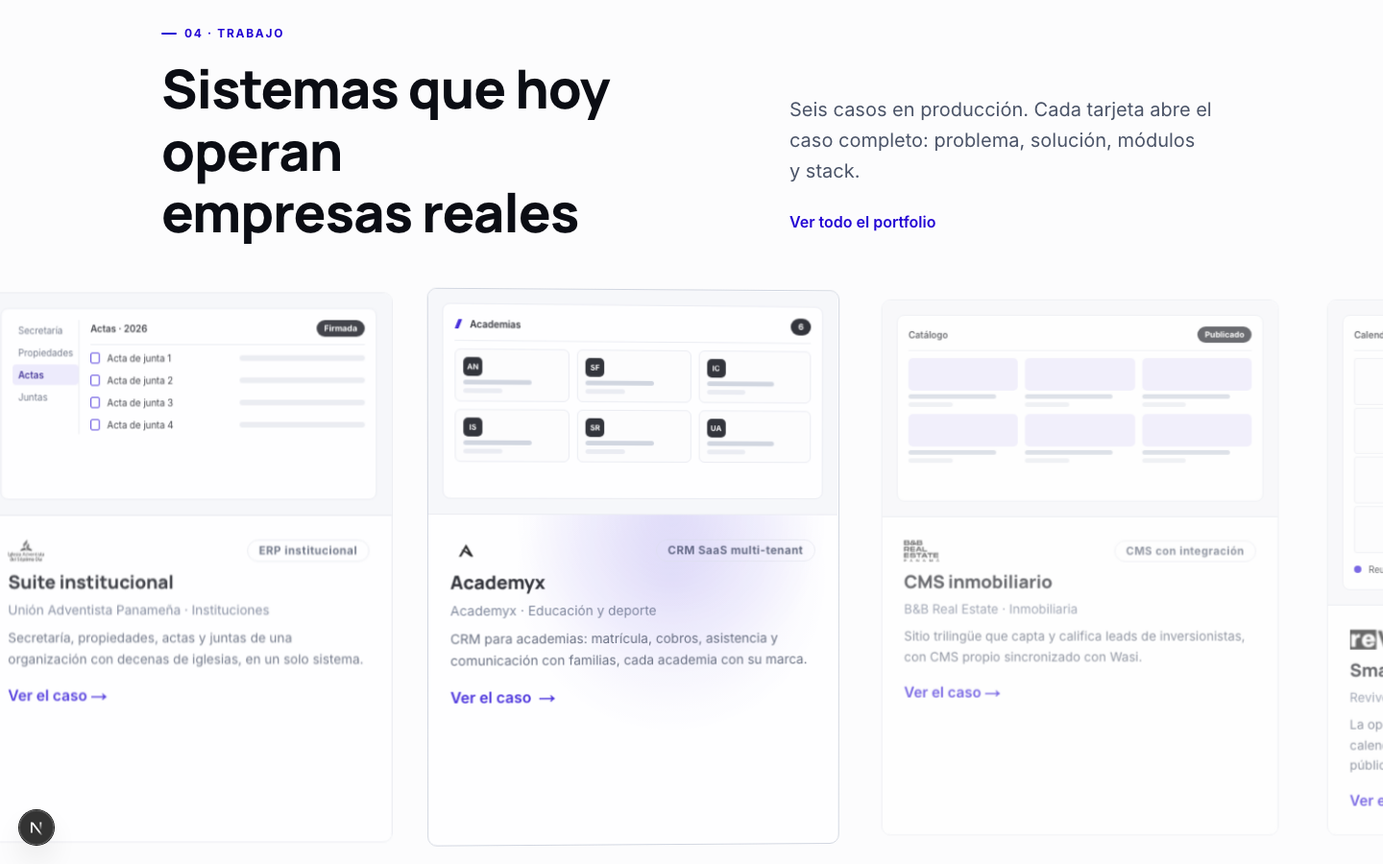
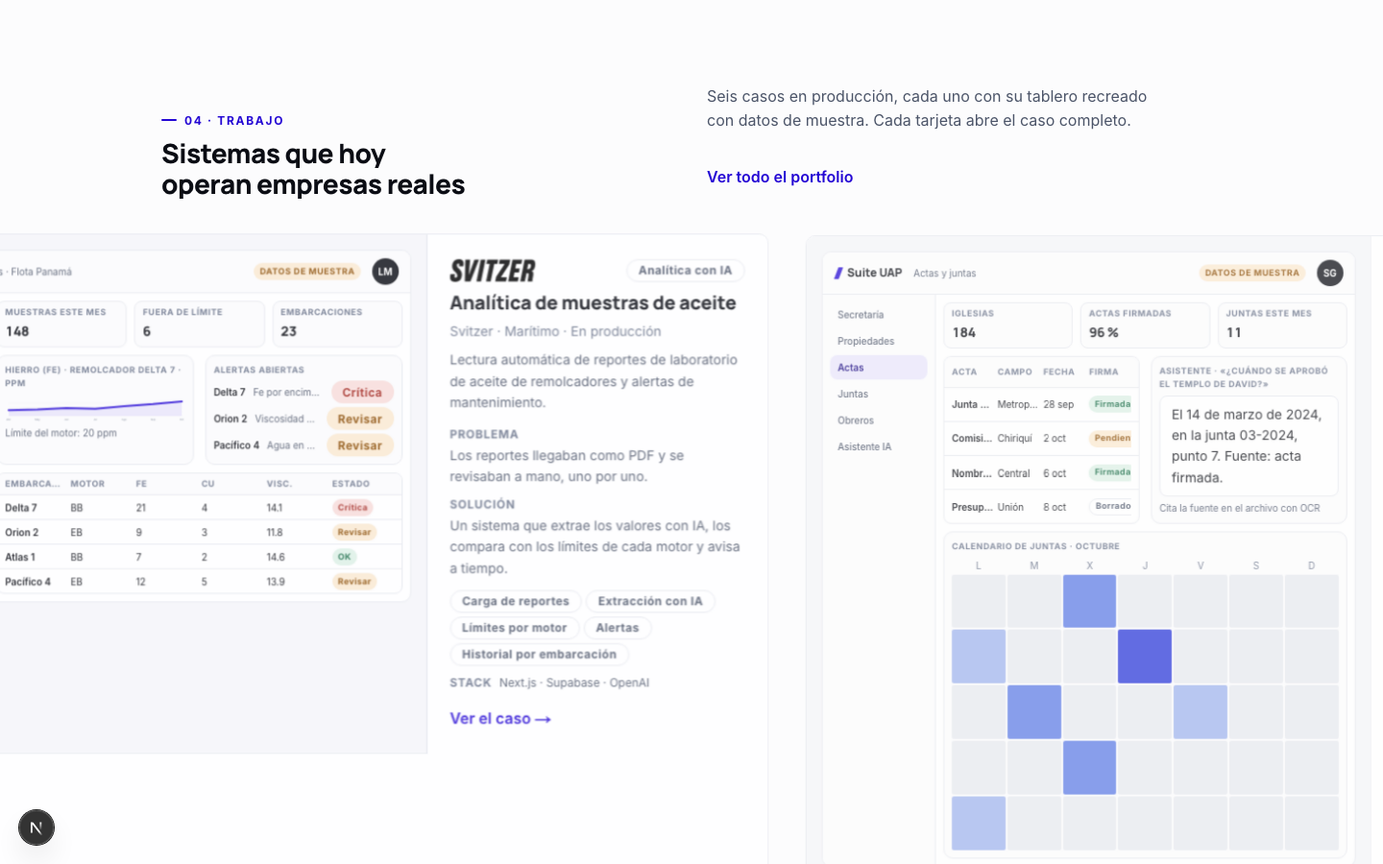
feat(trabajo): tableros completos por plataforma con datos de muestra y ficha detallada en cada tarjeta

diff --git a/src/components/sections/case-dashboards.tsx b/src/components/sections/case-dashboards.tsx
@@ -1,0 +1,164 @@
+// motion: none — tableros de cada plataforma del portfolio, construidos en HTML/CSS/SVG con las piezas del
+// sistema visual y DATOS DE MUESTRA (nombres, cifras y fechas inventados: nunca datos reales de clientes).
+// Cada tablero reproduce la estructura real del sistema: sus módulos, sus pantallas y su tipo de información.
+import { LetterChip, Pill } from "@/components/ui/primitives";
+import { AreaChart, Calendar, Funnel, Gantt, HBars, Heat, Ring, Stacked } from "./charts";
+import type { Lang } from "../../../content/site";
+
+const t = (lang: Lang, es: string, en: string) => (lang === "es" ? es : en);
+
+function Frame({ app, modulo, menu, activo, children, lang, user = "MP" }: { app: string; modulo: string; menu: string[]; activo: number; children: React.ReactNode; lang: Lang; user?: string }) {
+  return (
+    <div className="cd" data-mock="true">
+      <div className="cd-chrome">
+        <span className="cd-brand"><i /><b>{app}</b></span>
+        <span className="cd-crumb">{modulo}</span>
+        <span className="cd-mock">{t(lang, "Datos de muestra", "Sample data")}</span>
+        <span className="hw-user">{user}</span>
+      </div>
+      <div className="cd-body">
+        <nav className="cd-side" aria-hidden="true">{menu.map((m, i) => <span key={m} className={i === activo ? "on" : ""}>{m}</span>)}</nav>
+        <div className="cd-main">{children}</div>
+      </div>
+    </div>
+  );
+}
+
+function Kpis({ items }: { items: [string, string][] }) {
+  return <div className="cd-kpis">{items.map(([k, v]) => <div className="cd-kpi" key={k}><span className="hw-kpi-k">{k}</span><b className="num">{v}</b></div>)}</div>;
+}
+
+function Table({ cols, rows }: { cols: string[]; rows: (string | { t: string; tono: "ok" | "run" | "ghost" | "bad" })[][] }) {
+  return (
+    <div className="cd-table" style={{ "--cols": cols.length } as React.CSSProperties}>
+      <div className="cd-tr cd-th">{cols.map((c) => <span key={c}>{c}</span>)}</div>
+      {rows.map((r, i) => (
+        <div className="cd-tr" key={i}>{r.map((c, j) => typeof c === "string" ? <span key={j} className={j === 0 ? "strong" : ""}>{c}</span> : <span key={j}><Pill variant={c.tono}>{c.t}</Pill></span>)}</div>
+      ))}
+    </div>
+  );
+}
+
+/* ---------- Svitzer: analítica de muestras de aceite ---------- */
+function Svitzer({ lang }: { lang: Lang }) {
+  const es = lang === "es";
+  return (
+    <Frame app="OilSense" modulo={es ? "Muestras · Flota Panamá" : "Samples · Panama fleet"} menu={[es ? "Flota" : "Fleet", es ? "Muestras" : "Samples", es ? "Alertas" : "Alerts", es ? "Reportes" : "Reports"]} activo={1} lang={lang} user="LM">
+      <Kpis items={[[es ? "Muestras este mes" : "Samples this month", "148"], [es ? "Fuera de límite" : "Out of limit", "6"], [es ? "Embarcaciones" : "Vessels", "23"]]} />
+      <div className="cd-two">
+        <div className="hw-card"><span className="hw-kpi-k">{es ? "Hierro (Fe) · Remolcador Delta 7 · ppm" : "Iron (Fe) · Tug Delta 7 · ppm"}</span><AreaChart valores={[8, 9, 11, 10, 14, 17, 21]} etiquetas={["Abr", "May", "Jun", "Jul", "Ago", "Sep", "Oct"]} unidad="ppm" id="sv-a" h={96} /><span className="hw-sub">{es ? "Límite del motor: 20 ppm" : "Engine limit: 20 ppm"}</span></div>
+        <div className="hw-card"><span className="hw-kpi-k">{es ? "Alertas abiertas" : "Open alerts"}</span>
+          <ul className="cd-list">{[["Delta 7", es ? "Fe por encima del límite" : "Fe above limit", "bad"], ["Orion 2", es ? "Viscosidad baja" : "Low viscosity", "run"], ["Pacífico 4", es ? "Agua en aceite" : "Water in oil", "run"]].map(([a, b, c]) => <li key={a}><b>{a}</b><span>{b}</span><Pill variant={c as "bad"}>{c === "bad" ? (es ? "Crítica" : "Critical") : (es ? "Revisar" : "Review")}</Pill></li>)}</ul></div>
+      </div>
+      <Table cols={[es ? "Embarcación" : "Vessel", "Motor", "Fe", "Cu", "Visc.", es ? "Estado" : "Status"]} rows={[["Delta 7", "BB", "21", "4", "14.1", { t: es ? "Crítica" : "Critical", tono: "bad" }], ["Orion 2", "EB", "9", "3", "11.8", { t: es ? "Revisar" : "Review", tono: "run" }], ["Atlas 1", "BB", "7", "2", "14.6", { t: "OK", tono: "ok" }], ["Pacífico 4", "EB", "12", "5", "13.9", { t: es ? "Revisar" : "Review", tono: "run" }]]} />
+    </Frame>
+  );
+}
+
+/* ---------- Unión Adventista: suite institucional ---------- */
+function Uapa({ lang }: { lang: Lang }) {
+  const es = lang === "es";
+  return (
+    <Frame app="Suite UAP" modulo={es ? "Actas y juntas" : "Minutes and boards"} menu={[es ? "Secretaría" : "Secretariat", es ? "Propiedades" : "Properties", es ? "Actas" : "Minutes", es ? "Juntas" : "Boards", es ? "Obreros" : "Workers", es ? "Asistente IA" : "AI assistant"]} activo={2} lang={lang} user="SG">
+      <Kpis items={[[es ? "Iglesias" : "Churches", "184"], [es ? "Actas firmadas" : "Signed minutes", "96 %"], [es ? "Juntas este mes" : "Boards this month", "11"]]} />
+      <div className="cd-two">
+        <Table cols={[es ? "Acta" : "Minutes", es ? "Campo" : "Field", es ? "Fecha" : "Date", es ? "Firma" : "Signature"]} rows={[[es ? "Junta directiva 09-2026" : "Board 09-2026", es ? "Metropolitano" : "Metropolitan", "28 sep", { t: es ? "Firmada" : "Signed", tono: "ok" }], [es ? "Comisión de propiedades" : "Property committee", "Chiriquí", "2 oct", { t: es ? "Pendiente" : "Pending", tono: "run" }], [es ? "Nombramientos" : "Appointments", es ? "Central" : "Central", "6 oct", { t: es ? "Firmada" : "Signed", tono: "ok" }], [es ? "Presupuesto 2027" : "Budget 2027", es ? "Unión" : "Union", "8 oct", { t: es ? "Borrador" : "Draft", tono: "ghost" }]]} />
+        <div className="hw-card"><span className="hw-kpi-k">{es ? "Asistente · «¿Cuándo se aprobó el templo de David?»" : "Assistant · “When was the David temple approved?”"}</span><p className="cd-answer">{es ? "El 14 de marzo de 2024, en la junta 03-2024, punto 7. Fuente: acta firmada." : "On March 14, 2024, board 03-2024, item 7. Source: signed minutes."}</p><span className="hw-sub">{es ? "Cita la fuente en el archivo con OCR" : "Cites the source in the OCR archive"}</span></div>
+      </div>
+      <div className="hw-card"><span className="hw-kpi-k">{es ? "Calendario de juntas · octubre" : "Board calendar · October"}</span><Calendar dias={[0, 0, 2, 0, 0, 0, 0, 1, 0, 0, 3, 0, 0, 0, 0, 2, 0, 0, 1, 0, 0, 0, 0, 2, 0, 0, 0, 0, 1, 0, 0, 0, 0, 0, 0]} diasCorto={es ? ["L", "M", "X", "J", "V", "S", "D"] : ["M", "T", "W", "T", "F", "S", "S"]} id="ua-c" unidad={es ? "juntas" : "boards"} /></div>
+    </Frame>
+  );
+}
+
+/* ---------- Academyx: CRM SaaS para academias ---------- */
+function Academyx({ lang }: { lang: Lang }) {
+  const es = lang === "es";
+  return (
+    <Frame app="Academyx" modulo={es ? "Academia Norte · Matrícula" : "North Academy · Enrollment"} menu={[es ? "Matrícula" : "Enrollment", es ? "Jugadores" : "Players", es ? "Familias" : "Families", es ? "Cobros" : "Billing", es ? "Torneos" : "Tournaments", es ? "Correos" : "Email"]} activo={0} lang={lang} user="AN">
+      <Kpis items={[[es ? "Jugadores activos" : "Active players", "236"], [es ? "Cobrado octubre" : "Collected October", "US$ 14 920"], [es ? "Morosidad" : "Overdue", "4 %"]]} />
+      <div className="cd-two">
+        <Table cols={[es ? "Jugador" : "Player", es ? "Categoría" : "Category", es ? "Familia" : "Family", es ? "Cobro" : "Billing"]} rows={[["Mateo R.", "Sub-12", "Rodríguez", { t: es ? "Al día" : "Paid", tono: "ok" }], ["Sofía M.", "Sub-10", "Mendoza", { t: es ? "Al día" : "Paid", tono: "ok" }], ["Diego C.", "Sub-14", "Castillo", { t: es ? "Vence 15 oct" : "Due Oct 15", tono: "run" }], ["Valeria P.", "Sub-8", "Pérez", { t: es ? "Pendiente" : "Pending", tono: "ghost" }]]} />
+        <div className="hw-card"><span className="hw-kpi-k">{es ? "Asistencia por categoría · semana" : "Attendance by category · week"}</span><Heat filas={["Sub-8", "Sub-10", "Sub-12", "Sub-14"]} cols={es ? ["L", "M", "X", "J", "V"] : ["M", "T", "W", "T", "F"]} datos={[[18, 20, 17, 21, 19], [24, 22, 25, 23, 26], [30, 28, 31, 29, 33], [22, 24, 21, 25, 23]]} id="ax-h" unidad={es ? "asistentes" : "attendees"} /></div>
+      </div>
+      <div className="hw-card"><span className="hw-kpi-k">{es ? "Cobros por medio de pago" : "Payments by method"}</span><HBars items={[{ label: "Yappy", valor: 6240 }, { label: "PagueloFácil", valor: 4810 }, { label: "Stripe", valor: 2390 }, { label: es ? "Efectivo" : "Cash", valor: 1480 }]} unidad="US$" id="ax-b" /></div>
+    </Frame>
+  );
+}
+
+/* ---------- B&B Real Estate: CMS inmobiliario con Wasi ---------- */
+function Bnb({ lang }: { lang: Lang }) {
+  const es = lang === "es";
+  return (
+    <Frame app="B&B CMS" modulo={es ? "Propiedades · Sincronizadas con Wasi" : "Properties · Synced with Wasi"} menu={[es ? "Propiedades" : "Properties", es ? "Proyectos" : "Projects", "Leads", es ? "Campañas" : "Campaigns", es ? "Documentos" : "Documents", es ? "Traducciones" : "Translations"]} activo={0} lang={lang} user="BB">
+      <Kpis items={[[es ? "Publicadas" : "Published", "312"], [es ? "Leads esta semana" : "Leads this week", "27"], [es ? "Última sincronización" : "Last sync", es ? "hace 12 min" : "12 min ago"]]} />
+      <div className="cd-props">
+        {[[es ? "Apartamento · Costa del Este" : "Apartment · Costa del Este", "US$ 385 000", "ok"], [es ? "Casa · Clayton" : "House · Clayton", "US$ 720 000", "ok"], [es ? "Oficina · Obarrio" : "Office · Obarrio", "US$ 2 400 / mes", "run"], [es ? "Lote · Coronado" : "Lot · Coronado", "US$ 149 000", "ghost"]].map(([n, p, s]) => (
+          <div className="cd-prop" key={n}><i className="cd-photo" /><b>{n}</b><span className="num">{p}</span><Pill variant={s as "ok"}>{s === "ok" ? (es ? "Publicada" : "Published") : s === "run" ? (es ? "Revisión" : "Review") : (es ? "Borrador" : "Draft")}</Pill></div>
+        ))}
+      </div>
+      <div className="cd-two">
+        <div className="hw-card"><span className="hw-kpi-k">{es ? "Leads por origen" : "Leads by source"}</span><HBars items={[{ label: "Google", valor: 11 }, { label: "Instagram", valor: 8 }, { label: "WhatsApp", valor: 6 }, { label: es ? "Referido" : "Referral", valor: 2 }]} unidad="leads" id="bb-l" /></div>
+        <div className="hw-card"><span className="hw-kpi-k">{es ? "Idiomas del sitio" : "Site languages"}</span><ul className="cd-list">{[["ES", es ? "Español" : "Spanish", "100 %"], ["EN", es ? "Inglés" : "English", "98 %"], ["PT", es ? "Portugués" : "Portuguese", "91 %"]].map(([c, n, p]) => <li key={c}><LetterChip>{c}</LetterChip><span>{n}</span><b className="num">{p}</b></li>)}</ul></div>
+      </div>
+    </Frame>
+  );
+}
+
+/* ---------- Smart Church (Revive): operación de la iglesia ---------- */
+function SmartChurch({ lang }: { lang: Lang }) {
+  const es = lang === "es";
+  return (
+    <Frame app="Smart Church" modulo={es ? "Panel · Iglesia Revive" : "Dashboard · Revive Church"} menu={[es ? "Ministerios" : "Ministries", "Roster", es ? "Calendario" : "Calendar", es ? "Visitas" : "Visits", es ? "Junta" : "Board", es ? "Alabanza" : "Worship", es ? "Tesorería" : "Treasury"]} activo={2} lang={lang} user="RV">
+      <Kpis items={[[es ? "Miembros" : "Members", "412"], [es ? "Visitas del mes" : "Visits this month", "38"], [es ? "Ofrenda octubre" : "October offering", "US$ 9 340"]]} />
+      <div className="cd-two">
+        <div className="hw-card"><span className="hw-kpi-k">{es ? "Roster · domingo 12" : "Roster · Sunday 12"}</span><Gantt filas={[{ cliente: es ? "Alabanza" : "Worship", inicio: 0, fin: 1 }, { cliente: es ? "Ujieres" : "Ushers", inicio: 0, fin: 3 }, { cliente: es ? "Niños" : "Kids", inicio: 1, fin: 2 }, { cliente: es ? "Audio" : "Sound", inicio: 0, fin: 3 }]} dias={["8", "9", "10", "11", "12"]} id="sc-g" /></div>
+        <div className="hw-card"><span className="hw-kpi-k">{es ? "Ofrendas por mes" : "Offerings by month"}</span><Stacked series={[[6.1, 6.8, 7.4, 7.9], [1.2, 1.4, 1.1, 1.5]]} tipos={[es ? "Diezmo" : "Tithe", es ? "Misiones" : "Missions"]} meses={["Jul", "Ago", "Sep", "Oct"]} id="sc-s" unidad="US$ miles" /></div>
+      </div>
+      <Table cols={[es ? "Visita pastoral" : "Pastoral visit", es ? "Familia" : "Family", es ? "Responsable" : "Owner", es ? "Estado" : "Status"]} rows={[[es ? "Hospital · oración" : "Hospital · prayer", "Gómez", "Pr. Díaz", { t: es ? "Hecha" : "Done", tono: "ok" }], [es ? "Nuevo miembro" : "New member", "Lara", "Hna. Ruiz", { t: es ? "Programada" : "Scheduled", tono: "run" }], [es ? "Seguimiento" : "Follow-up", "Pinto", "Pr. Díaz", { t: es ? "Pendiente" : "Pending", tono: "ghost" }]]} />
+    </Frame>
+  );
+}
+
+/* ---------- John Henry: sastrería ---------- */
+function JohnHenry({ lang }: { lang: Lang }) {
+  const es = lang === "es";
+  return (
+    <Frame app="John Henry" modulo={es ? "Pedidos · Sede Panamá" : "Orders · Panama branch"} menu={[es ? "Citas" : "Appointments", es ? "Clientes" : "Clients", es ? "Pedidos" : "Orders", es ? "Telas" : "Fabrics", es ? "Modelos" : "Models", es ? "Finanzas" : "Finance", es ? "Sedes" : "Branches"]} activo={2} lang={lang} user="JH">
+      <Kpis items={[[es ? "Pedidos en taller" : "Orders in workshop", "14"], [es ? "Citas esta semana" : "Appointments this week", "9"], [es ? "Ventas octubre" : "October sales", "US$ 31 600"]]} />
+      <div className="cd-two">
+        <Table cols={[es ? "Pedido" : "Order", es ? "Prenda" : "Garment", es ? "Tela" : "Fabric", es ? "Etapa" : "Stage"]} rows={[["#2041", es ? "Traje 2 piezas" : "2-piece suit", "Loro Piana 110s", { t: es ? "Corte" : "Cutting", tono: "run" }], ["#2044", es ? "Esmoquin" : "Tuxedo", "Vitale Barberis", { t: es ? "Prueba" : "Fitting", tono: "run" }], ["#2039", es ? "Camisa" : "Shirt", "Thomas Mason", { t: es ? "Entregado" : "Delivered", tono: "ok" }], ["#2046", es ? "Abrigo" : "Overcoat", "Cashmere", { t: es ? "Medidas" : "Measuring", tono: "ghost" }]]} />
+        <div className="hw-card cd-measures"><span className="hw-kpi-k">{es ? "Medidas · cliente #118" : "Measurements · client #118"}</span>
+          <svg viewBox="0 0 80 120" className="cd-mannequin" aria-hidden="true"><path d="M40 6a8 8 0 1 0 0 16a8 8 0 1 0 0-16zM26 26h28l10 40h-9l-3-22v70h-8V74h-8v40h-8V44l-3 22h-9z" /></svg>
+          <ul className="cd-list tight">{[[es ? "Pecho" : "Chest", "102 cm"], [es ? "Cintura" : "Waist", "88 cm"], [es ? "Largo saco" : "Jacket length", "74 cm"], [es ? "Manga" : "Sleeve", "63 cm"]].map(([k, v]) => <li key={k}><span>{k}</span><b className="num">{v}</b></li>)}</ul></div>
+      </div>
+      <div className="hw-card"><span className="hw-kpi-k">{es ? "Ventas por sede · US$ miles" : "Sales by branch · US$ thousands"}</span><HBars items={[{ label: "Panamá", valor: 31.6 }, { label: "Bogotá", valor: 27.2 }, { label: "Medellín", valor: 18.9 }]} unidad="US$ miles" id="jh-b" /></div>
+    </Frame>
+  );
+}
+
+/* ---------- Resto de sistemas: tablero genérico con sus módulos reales ---------- */
+function Generico({ lang, nombre, modulos }: { lang: Lang; nombre: string; modulos: string[] }) {
+  const es = lang === "es";
+  return (
+    <Frame app={nombre} modulo={modulos[0] ?? ""} menu={modulos.slice(0, 6)} activo={0} lang={lang}>
+      <Kpis items={[[es ? "Registros" : "Records", "1 284"], [es ? "Activos" : "Active", "96 %"], [es ? "Este mes" : "This month", "+128"]]} />
+      <div className="cd-two">
+        <div className="hw-card"><span className="hw-kpi-k">{es ? "Actividad" : "Activity"}</span><AreaChart valores={[12, 18, 15, 22, 27, 24, 31]} etiquetas={["1", "2", "3", "4", "5", "6", "7"]} unidad={es ? "registros" : "records"} id="g-a" h={96} /></div>
+        <div className="hw-card"><span className="hw-kpi-k">{es ? "Por estado" : "By status"}</span><Funnel etapas={[{ label: es ? "Nuevos" : "New", n: 48 }, { label: es ? "En curso" : "In progress", n: 31 }, { label: es ? "Cerrados" : "Closed", n: 122 }]} activa={1} onPick={() => {}} id="g-f" /></div>
+      </div>
+      <div className="hw-card cd-ring"><Ring valor={72} meta={100} label={es ? "Avance" : "Progress"} id="g-r" /><span className="hw-sub">{es ? "72 % de la meta del mes" : "72% of the monthly goal"}</span></div>
+    </Frame>
+  );
+}
+
+export function CaseDashboard({ slug, lang, nombre, modulos }: { slug: string; lang: Lang; nombre: string; modulos: string[] }) {
+  switch (slug) {
+    case "svitzer": return <Svitzer lang={lang} />;
+    case "uapa-suite": return <Uapa lang={lang} />;
+    case "academyx": return <Academyx lang={lang} />;
+    case "bnb-real-estate": return <Bnb lang={lang} />;
+    case "smart-church": return <SmartChurch lang={lang} />;
+    case "john-henry": return <JohnHenry lang={lang} />;
+    default: return <Generico lang={lang} nombre={nombre} modulos={modulos} />;
+  }
+}

diff --git a/src/components/sections/featured-work.css b/src/components/sections/featured-work.css
@@ -13,7 +13,7 @@
   .fw-rail-outer { overflow-x: auto; overflow-y: hidden; scroll-snap-type: x mandatory; scrollbar-width: none; }
   .fw-rail-outer::-webkit-scrollbar { display: none; }
   .fw-rail { display: flex; width: max-content; min-width: 100%; }
-  .fw-rail > li { scroll-snap-align: start; flex: none; width: 440px; }
+  .fw-rail > li { scroll-snap-align: start; flex: none; width: 960px; }
 }
 .fw-foot { display: flex; justify-content: space-between; gap: var(--s-4); }
 .fw-hint { display: none; }
@@ -22,22 +22,29 @@
 @supports (animation-timeline: view()) {
   @media (min-width: 1024px) {
     .fw { height: calc(var(--n) * 60vh + 100vh); view-timeline-name: --fw; view-timeline-axis: block; }
-    .fw-pin { position: sticky; top: 0; height: 100vh; box-sizing: border-box; padding-top: calc(72px + var(--s-8)); padding-bottom: var(--s-8); align-content: center; overflow: hidden; }
+    .fw-pin { position: sticky; top: 0; height: 100vh; box-sizing: border-box; padding-top: calc(72px + var(--s-4)); padding-bottom: var(--s-6); gap: var(--s-6); align-content: start; overflow: hidden; }
+    .fw-head { grid-template-columns: minmax(0, 1fr) minmax(0, 1fr); align-items: end; gap: var(--s-8); }
+    .fw-head-l .t-1 { font-size: 28px; }
+    .fw-head-l { gap: var(--s-2); }
+    .fw-foot { display: none; }
+    .fw-head-r { display: flex; align-items: baseline; gap: var(--s-6); flex-wrap: wrap; }
+    .fw-head-r .lead { font-size: var(--text-md); max-width: 48ch; }
     .fw-rail-outer { overflow: visible; scroll-snap-type: none; }
     .fw-rail { animation: fw-slide linear both; animation-timeline: --fw; animation-range: contain 4% contain 100%; will-change: transform; }
-    .fw-rail > li { width: 440px; }
+    .fw-rail > li { width: 960px; }
     .fw-hint { display: inline; }
     /* enfoque: cada tarjeta crece al pasar por el centro, en su tramo del recorrido */
     .fw-card { animation: fw-focus linear both; animation-timeline: --fw; animation-range: contain calc((var(--i) - 1) * 100% / (var(--n) - 1)) contain calc((var(--i) + 1) * 100% / (var(--n) - 1)); }
   }
 }
-@keyframes fw-slide { from { transform: translate3d(0, 0, 0); } to { transform: translate3d(calc(-1 * (var(--n) - 2) * (440px + 24px)), 0, 0); } }
-@keyframes fw-focus { 0% { scale: 0.94; opacity: 0.6; } 50% { scale: 1; opacity: 1; } 100% { scale: 0.94; opacity: 0.6; } }
+@keyframes fw-slide { from { transform: translate3d(0, 0, 0); } to { transform: translate3d(calc(-1 * (var(--n) - 1) * (960px + 24px) + 100vw - 960px - 2 * var(--gutter)), 0, 0); } }
+@keyframes fw-focus { 0% { scale: 0.97; opacity: 0.55; } 50% { scale: 1; opacity: 1; } 100% { scale: 0.97; opacity: 0.55; } }
 
 /* ---------- Tarjeta ---------- */
 .fw-card { padding: 0; overflow: hidden; height: 100%; }
 .fw-link { display: grid; grid-template-rows: auto minmax(0, 1fr); height: 100%; text-decoration: none; color: inherit; }
-.fw-visual { min-height: 240px; background: var(--panel); border-bottom: var(--border); padding: var(--s-4); display: grid; }
+@media (min-width: 1024px) { .fw-link { grid-template-rows: none; grid-template-columns: minmax(0, 5fr) minmax(0, 3fr); } .fw-visual { border-bottom: 0; border-right: var(--border); } .fw-body { padding: var(--s-4) var(--s-6); gap: var(--s-1); } .fw-ps dd, .fw-r { font-size: var(--text-xs); } .fw-t { font-size: var(--text-md); } }
+.fw-visual { min-height: 240px; background: var(--panel); border-bottom: var(--border); padding: var(--s-4); display: grid; align-content: start; }
 .fw-body { display: grid; gap: var(--s-2); padding: var(--s-6); align-content: start; }
 .fw-top { display: flex; justify-content: space-between; align-items: center; gap: var(--s-2); min-height: 28px; flex-wrap: wrap; }
 .fw-top .pill { white-space: normal; text-align: right; line-height: 1.3; padding-block: 3px; }
@@ -47,6 +54,11 @@
 .fw-t { font-family: var(--font-display); font-weight: var(--w-display); font-size: var(--text-lg); letter-spacing: var(--tracking-tight); line-height: var(--leading-snug); }
 .fw-c { font-size: var(--text-sm); color: var(--fg-3); }
 .fw-r { font-size: var(--text-sm); color: var(--fg-2); line-height: var(--leading-body); }
+.fw-ps { display: grid; gap: var(--s-2); margin: var(--s-1) 0 0; }
+.fw-ps div { display: grid; gap: 2px; }
+.fw-ps dd { margin: 0; font-size: var(--text-sm); color: var(--fg-2); line-height: var(--leading-body); }
+.fw-mods { display: flex; flex-wrap: wrap; gap: var(--s-1); margin-top: var(--s-1); }
+.fw-stack { font-size: var(--text-xs); color: var(--fg-2); display: flex; gap: var(--s-2); flex-wrap: wrap; }
 .fw-cta { margin-top: var(--s-2); font-weight: var(--w-semibold); color: var(--accent); display: inline-flex; gap: var(--s-1); align-items: center; }
 .fw-cta .arrow { transition: transform var(--dur-fast) var(--ease-out); }
 .fw-link:hover .fw-cta .arrow { transform: translateX(4px); }
@@ -91,3 +103,52 @@
 .cv-prog { display: grid; grid-template-columns: 56px minmax(0, 1fr) auto; align-items: center; gap: var(--s-2); }
 .cv-prog i { display: block; height: 8px; border-radius: 4px; background: var(--line); position: relative; overflow: hidden; }
 .cv-prog i::after { content: ""; position: absolute; inset: 0; width: var(--w); background: var(--accent); border-radius: 4px; }
+
+/* ---------- Tableros de caso (datos de muestra) ---------- */
+.cd { display: grid; border: var(--border); border-radius: var(--r-md); background: var(--surface); overflow: hidden; font-size: 10px; color: var(--fg); min-width: 0; }
+.cd-chrome { display: grid; grid-template-columns: auto minmax(0, 1fr) auto auto; align-items: center; gap: var(--s-3); padding: var(--s-2) var(--s-3); border-bottom: var(--border); background: var(--paper); }
+.cd-brand { display: inline-flex; align-items: center; gap: var(--s-1); font-family: var(--font-display); font-weight: var(--w-display); font-size: var(--text-xs); }
+.cd-brand i { width: 10px; height: 13px; background: var(--accent); clip-path: polygon(50% 0, 100% 0, 50% 100%, 0 100%); border-radius: 1px; }
+.cd-crumb { color: var(--fg-2); overflow: hidden; text-overflow: ellipsis; white-space: nowrap; }
+.cd-mock { font-size: 9px; font-weight: var(--w-label); letter-spacing: var(--tracking-caps); text-transform: uppercase; color: var(--run); background: var(--run-soft); padding: 2px 6px; border-radius: var(--r-pill); white-space: nowrap; }
+.cd-body { display: grid; grid-template-columns: minmax(0, 1fr); }
+@media (min-width: 640px) { .cd-body { grid-template-columns: 120px minmax(0, 1fr); } }
+.cd-side { display: none; flex-direction: column; gap: 2px; padding: var(--s-2); border-right: var(--border); background: var(--paper); }
+@media (min-width: 640px) { .cd-side { display: flex; } }
+.cd-side span { padding: 5px 8px; border-radius: var(--r-sm); color: var(--fg-2); font-weight: var(--w-medium); white-space: nowrap; overflow: hidden; text-overflow: ellipsis; }
+.cd-side span.on { background: var(--accent-soft); color: var(--accent-ink); font-weight: var(--w-semibold); }
+.cd-main { display: grid; gap: var(--s-2); padding: var(--s-2); min-width: 0; align-content: start; }
+.cd-kpis { display: grid; grid-template-columns: repeat(auto-fit, minmax(96px, 1fr)); gap: var(--s-2); }
+.cd-kpi { display: grid; gap: 2px; padding: var(--s-1) var(--s-2); border: var(--border); border-radius: var(--r-sm); background: var(--paper); min-width: 0; }
+.cd-kpi b { font-family: var(--font-display); font-weight: var(--w-display); font-size: var(--text-sm); letter-spacing: var(--tracking-display); overflow: hidden; text-overflow: ellipsis; white-space: nowrap; }
+.cd-two { display: grid; gap: var(--s-3); grid-template-columns: minmax(0, 1fr); }
+@media (min-width: 640px) { .cd-two { grid-template-columns: minmax(0, 1fr) minmax(0, 1fr); } }
+.cd .hw-card { padding: var(--s-2); gap: var(--s-1); animation: none; }
+.cd .hw-kpi-k { font-size: 9px; }
+.cd .ch { height: auto; }
+.cd .ch-cal { gap: 2px; } .cd .ch-cal-d { border-radius: 2px; }
+.cd .ch-hbar { grid-template-columns: 72px minmax(0, 1fr) auto; } .cd .ch-hbar-track { height: 8px; }
+.cd .ch-gantt-head, .cd .ch-gantt-row { grid-template-columns: 72px minmax(0, 1fr); } .cd .ch-gantt-track { height: 14px; }
+.cd .ch-heat { gap: 2px; } .cd .ch-cell { height: 20px; } .cd .ch-heat-l { font-size: 9px; }
+.cd-table { display: grid; border: var(--border); border-radius: var(--r-sm); background: var(--surface); overflow: hidden; min-width: 0; }
+.cd-tr { display: grid; grid-template-columns: repeat(var(--cols), minmax(0, 1fr)); align-items: center; gap: var(--s-1); padding: 0 var(--s-2); min-height: 26px; border-top: var(--border); }
+.cd-tr > span { overflow: hidden; text-overflow: ellipsis; white-space: nowrap; min-width: 0; }
+.cd-tr > span.strong { font-weight: var(--w-semibold); }
+.cd-th { border-top: 0; min-height: 22px; background: var(--paper); color: var(--fg-3); font-weight: var(--w-label); letter-spacing: var(--tracking-caps); text-transform: uppercase; font-size: 9px; }
+.cd-tr .pill { min-height: 18px; font-size: 9px; padding: 0 6px; }
+.cd-list { list-style: none; display: grid; gap: var(--s-1); }
+.cd-list li { display: grid; grid-template-columns: auto minmax(0, 1fr) auto; align-items: center; gap: var(--s-2); min-height: 24px; }
+.cd-list li > span { overflow: hidden; text-overflow: ellipsis; white-space: nowrap; color: var(--fg-2); }
+.cd-list li > b:first-child { font-weight: var(--w-semibold); }
+.cd-list.tight li { grid-template-columns: minmax(0, 1fr) auto; min-height: 24px; }
+.cd-list .letter-chip { width: 24px; height: 24px; font-size: 10px; border-radius: 6px; }
+.cd-answer { font-size: var(--text-sm); color: var(--fg); padding: var(--s-2) var(--s-3); border: var(--border); border-radius: var(--r-sm); background: var(--surface); }
+.cd-props { display: grid; gap: var(--s-2); grid-template-columns: repeat(auto-fill, minmax(min(100%, 150px), 1fr)); }
+.cd-prop { display: grid; gap: 4px; padding: var(--s-2); border: var(--border); border-radius: var(--r-sm); background: var(--paper); min-width: 0; }
+.cd-prop b { font-weight: var(--w-semibold); overflow: hidden; text-overflow: ellipsis; white-space: nowrap; }
+.cd-prop > span { color: var(--fg-2); }
+.cd-prop .pill { justify-self: start; min-height: 20px; font-size: 10px; }
+.cd-photo { display: block; height: 40px; border-radius: 4px; background: linear-gradient(135deg, var(--accent-soft), var(--line)); }
+.cd-measures { grid-template-columns: 56px minmax(0, 1fr); grid-template-areas: "k k" "m l"; align-items: start; }
+.cd-measures > .hw-kpi-k { grid-area: k; } .cd-mannequin { grid-area: m; width: 48px; height: 72px; fill: var(--line-strong); } .cd-measures .cd-list { grid-area: l; }
+.cd-ring { justify-items: center; text-align: center; }

diff --git a/src/components/sections/featured-work.tsx b/src/components/sections/featured-work.tsx
@@ -7,14 +7,14 @@ import Image from "next/image";
 import { Eyebrow, LetterChip, Lines, Pill } from "@/components/ui/primitives";
 import { TiltCard } from "@/components/ui/tilt-card";
 import { TextLink } from "@/components/ui/text-link";
-import { CaseVisual } from "./case-visual";
+import { CaseDashboard } from "./case-dashboards";
 import { DESTACADOS, type Caso } from "../../../content/portfolio";
 import type { Lang } from "../../../content/site";
 import "./featured-work.css";
 
 const COPY = {
-  es: { eyebrow: "04 · Trabajo", titulo: ["Sistemas que hoy", "operan empresas reales"], bajada: "Seis casos en producción. Cada tarjeta abre el caso completo: problema, solución, módulos y stack.", ver: "Ver el caso", todos: "Ver todo el portfolio", hint: "Bajá para recorrerlos" },
-  en: { eyebrow: "04 · Work", titulo: ["Systems that run", "real companies today"], bajada: "Six cases in production. Each card opens the full case: problem, solution, modules and stack.", ver: "View case", todos: "See the whole portfolio", hint: "Scroll to browse" },
+  es: { eyebrow: "04 · Trabajo", titulo: ["Sistemas que hoy", "operan empresas reales"], bajada: "Seis casos en producción, cada uno con su tablero recreado con datos de muestra. Cada tarjeta abre el caso completo.", ver: "Ver el caso", todos: "Ver todo el portfolio", hint: "Bajá para recorrerlos" },
+  en: { eyebrow: "04 · Work", titulo: ["Systems that run", "real companies today"], bajada: "Six cases in production, each with its dashboard recreated with sample data. Each card opens the full case.", ver: "View case", todos: "See the whole portfolio", hint: "Scroll to browse" },
 };
 
 function Card({ c, lang, i, n }: { c: Caso; lang: Lang; i: number; n: number }) {
@@ -23,7 +23,7 @@ function Card({ c, lang, i, n }: { c: Caso; lang: Lang; i: number; n: number }) 
     <TiltCard className="fw-card" style={{ "--i": i, "--n": n } as React.CSSProperties}>
       <Link href={`/${lang}/portfolio/${c.slug}`} className="fw-link" data-motion="tilt">
         <div className="fw-visual" style={{ viewTransitionName: `caso-${c.slug}` } as React.CSSProperties}>
-          <CaseVisual tipo={c.visual} lang={lang} />
+          <CaseDashboard slug={c.slug} lang={lang} nombre={c.nombre} modulos={c.modulos[lang]} />
         </div>
         <div className="fw-body">
           <div className="fw-top">
@@ -31,8 +31,14 @@ function Card({ c, lang, i, n }: { c: Caso; lang: Lang; i: number; n: number }) 
             <Pill variant="ghost">{c.tipo[lang]}</Pill>
           </div>
           <h3 className="fw-t">{c.nombre}</h3>
-          <p className="fw-c">{c.cliente} · {c.industria[lang]}</p>
+          <p className="fw-c">{c.cliente} · {c.industria[lang]} · {c.estado[lang]}</p>
           <p className="fw-r">{c.resumen[lang]}</p>
+          <dl className="fw-ps">
+            <div><dt className="caps">{lang === "es" ? "Problema" : "Problem"}</dt><dd>{c.problema[lang]}</dd></div>
+            <div><dt className="caps">{lang === "es" ? "Solución" : "Solution"}</dt><dd>{c.solucion[lang]}</dd></div>
+          </dl>
+          <div className="fw-mods">{c.modulos[lang].map((m) => <Pill key={m} variant="ghost">{m}</Pill>)}</div>
+          <p className="fw-stack"><span className="caps">Stack</span> {c.stack.join(" · ")}</p>
           <span className="fw-cta">{t.ver} <span className="arrow" aria-hidden="true">→</span></span>
         </div>
       </Link>

diff --git a/content/avance.ts b/content/avance.ts
@@ -167,7 +167,7 @@ export const PASOS: Paso[] = [
     revisar: [
       "Escritorio: al llegar a «Trabajo» la sección se fija y, mientras bajás, el carril se desplaza de derecha a izquierda; la tarjeta que pasa por el centro crece y las demás bajan de tono (scroll-timeline nativo, sin JavaScript). En navegadores sin soporte: carril con scroll horizontal y snap. En teléfono y tableta: lista vertical (una o dos columnas), sin recortes.",
       "Movelo con el mouse sobre una tarjeta: se inclina hasta 6° y una luz sigue el puntero.",
-      "Seis casos destacados: Svitzer, Unión Adventista, Academyx, B&B Real Estate, Smart Church (Revive) y John Henry. Cada visual es una composición en HTML del tipo de sistema, no una captura. Cada tarjeta abre /es/portfolio/[slug] (se construye en el paso 8).",
+      "Seis casos destacados: Svitzer, Unión Adventista, Academyx, B&B Real Estate, Smart Church (Revive) y John Henry. Cada tarjeta muestra el tablero de esa plataforma recreado en HTML con sus módulos reales y datos de muestra (marcado «Datos de muestra»), más problema, solución, módulos y stack. Abre /es/portfolio/[slug] (paso 8).",
       "Los datos de stack, módulos, problema y solución de los 13 sistemas se leyeron de sus repos en esta máquina (Svitzer no tiene repo aquí). En content/portfolio.ts cada caso tiene publicable; los de clientes no autorizados siguen en false.",
     ],
     capturas: { w375: "/avance/paso-07-375.png", w1440: "/avance/paso-07-1440.png" },
@@ -175,6 +175,7 @@ export const PASOS: Paso[] = [
     notas: [
       "Lighthouse móvil en /es (build local): rendimiento 95–98, accesibilidad 100 tras quitar un aria-label que no coincidía con el texto visible, buenas prácticas 96. Escritorio 100/100/96.",
       "Teléfonos (quick, 6 modelos actuales, motores reales de Safari y Chrome): primera corrida con recortes en los visuales (altura fija) y en el carril horizontal de teléfono; se pasó a altura por contenido y a lista vertical en pantallas chicas.",
+      "Nota de Javier (2026-10-09): «no sirve; algo más detallado del proyecto y que se vean los dashboards de cada plataforma con mock data». Se rehicieron las tarjetas: tablero completo por plataforma (menú, cifras, tablas, gráficas) con datos inventados y ficha detallada al lado.",
     ],
     actualizado: "2026-10-09",
   },
